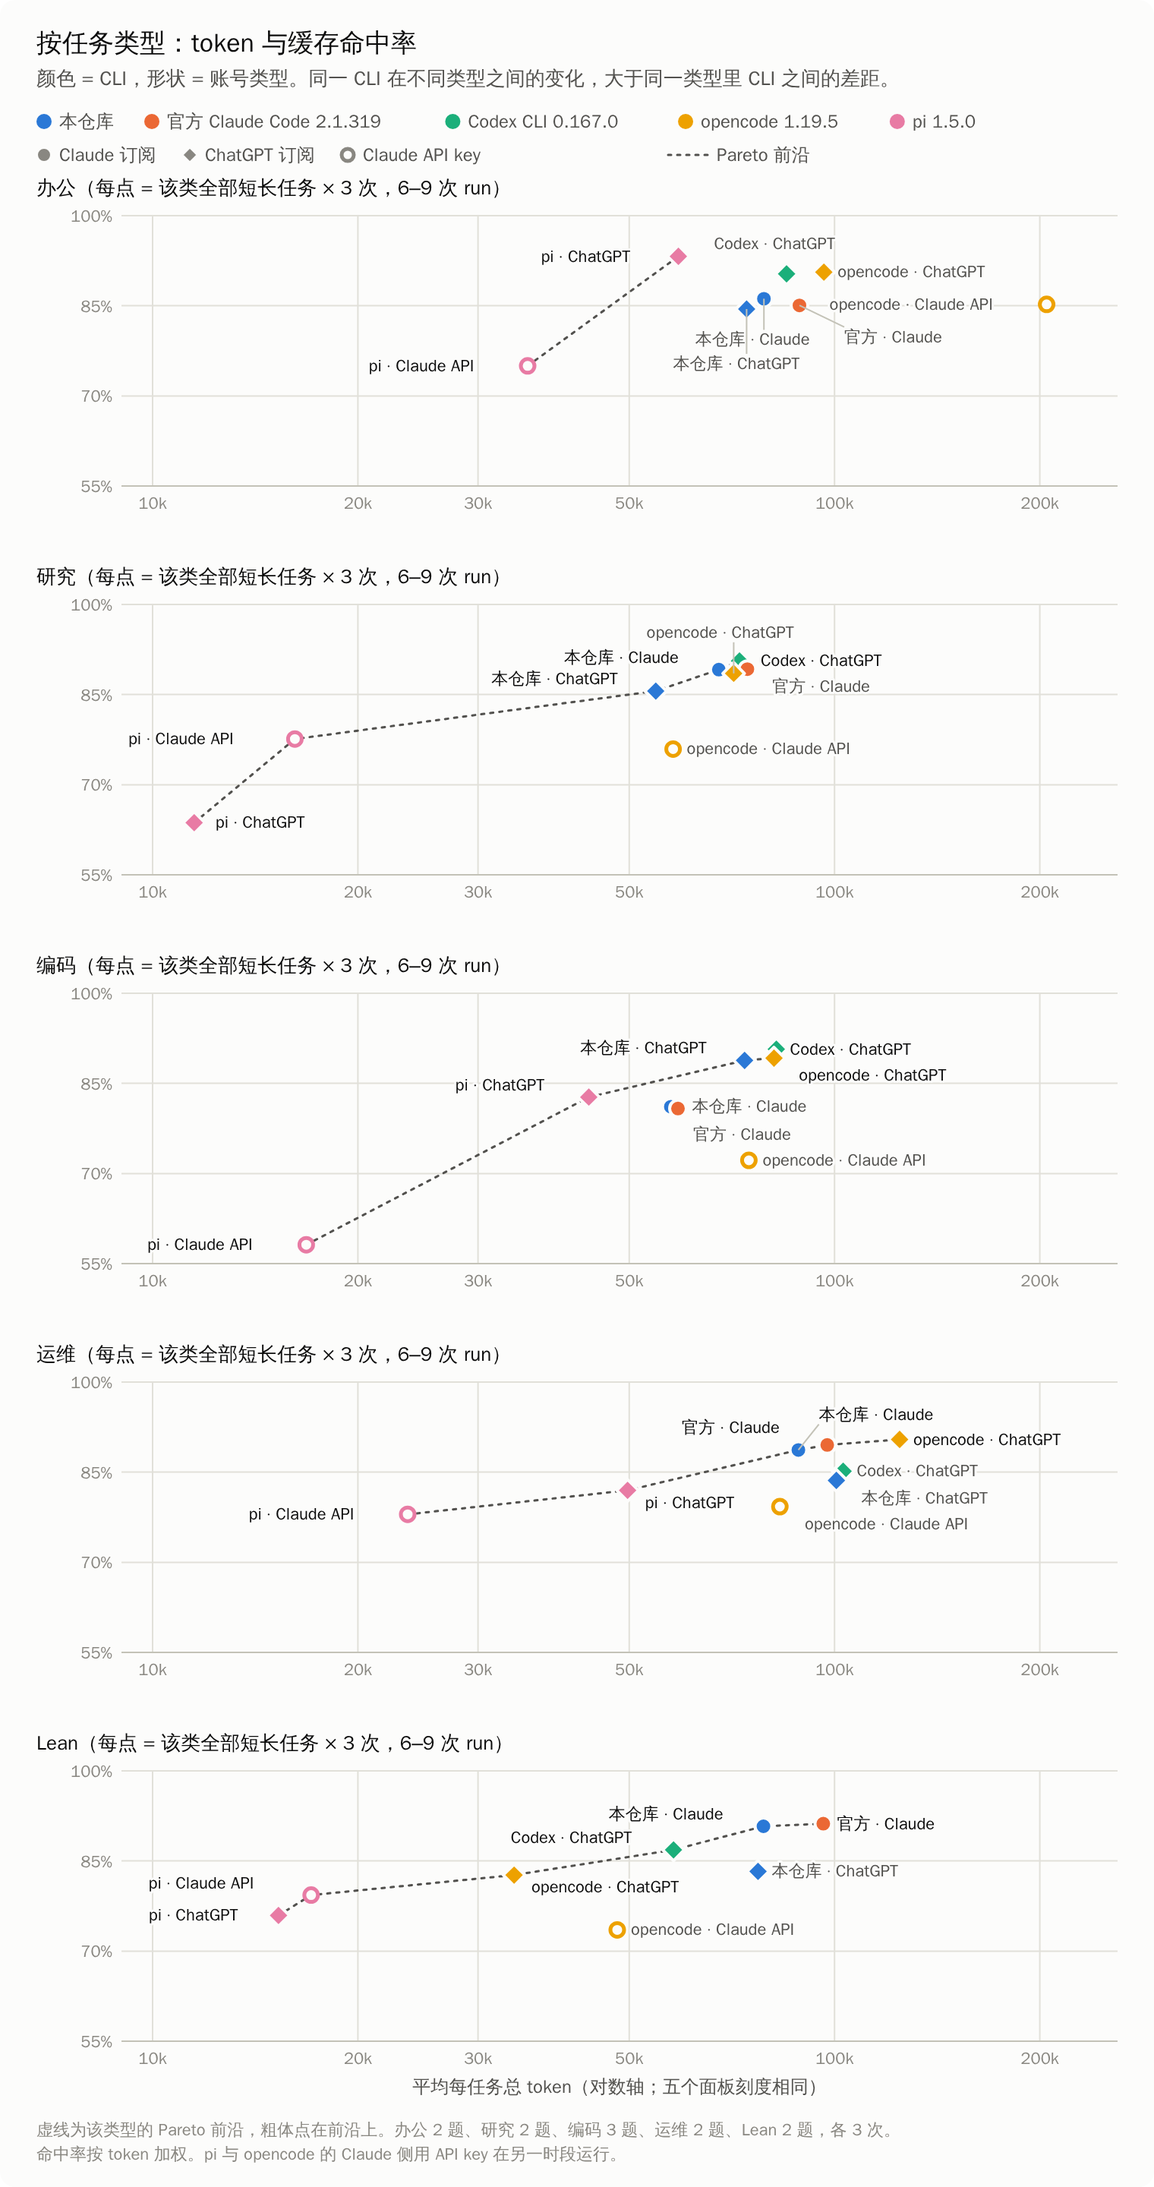
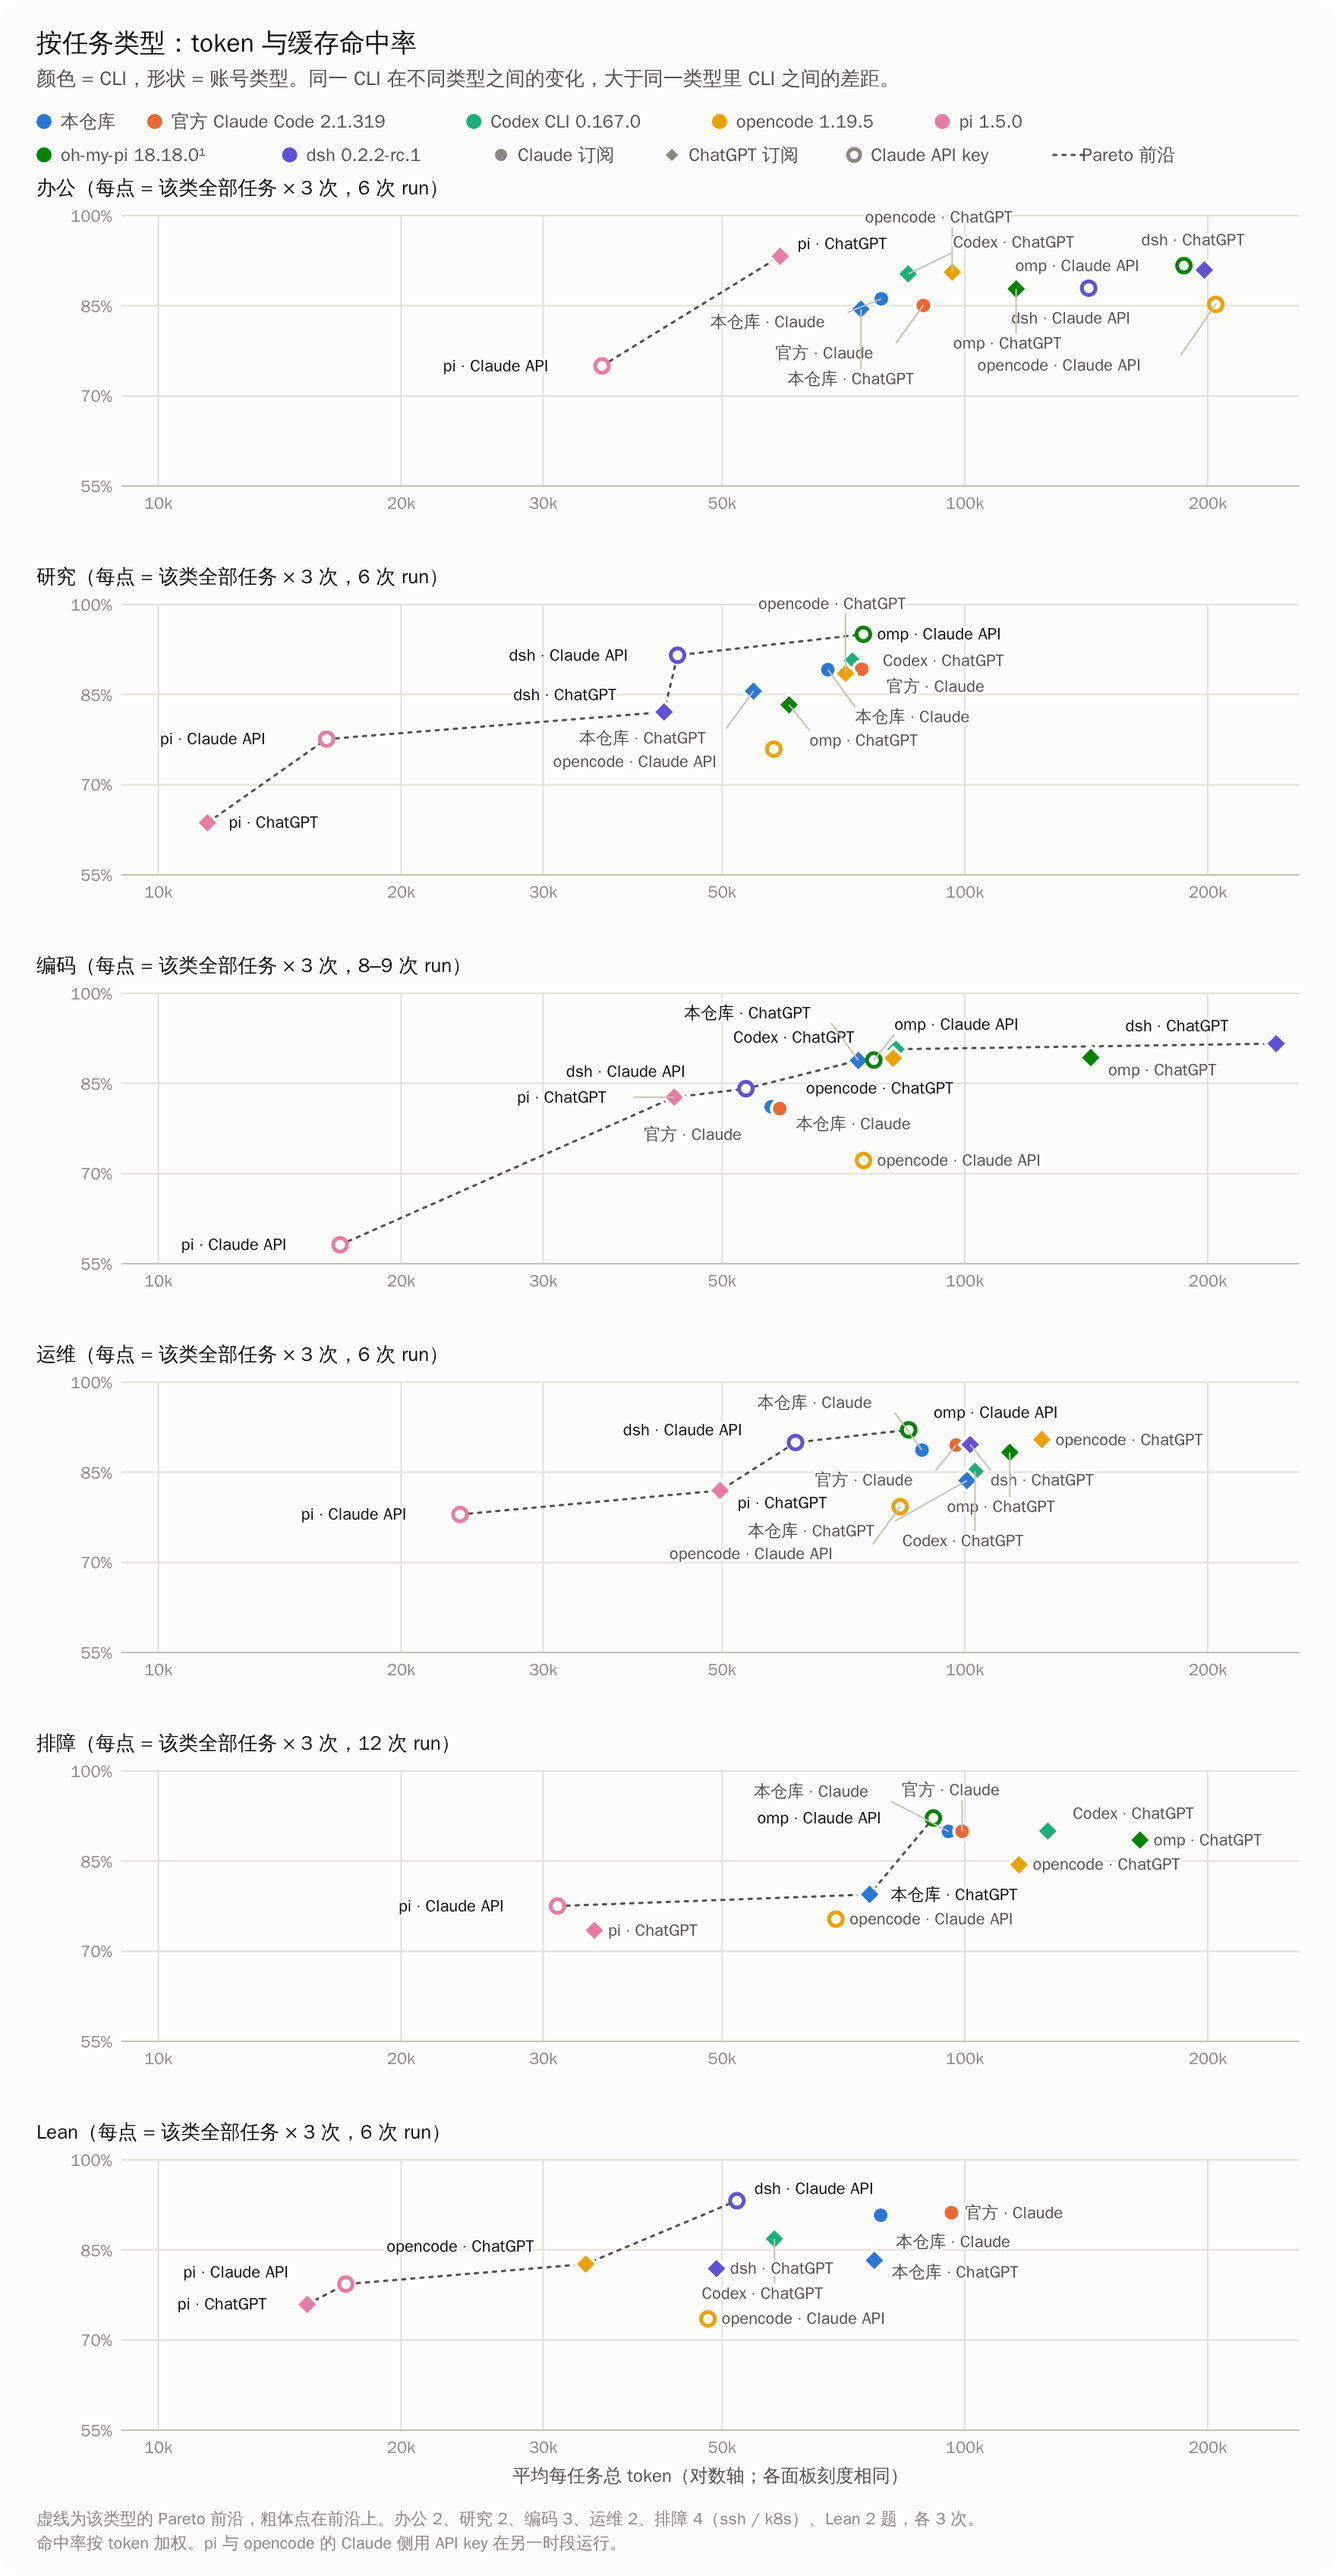
docs(cache-benchmark): scatter charts with all CLIs, ops troubleshooting facet

diff --git a/docs/features/cache-benchmark.md b/docs/features/cache-benchmark.md
@@ -101,31 +101,32 @@ pi 与 opencode 另用 Claude API key 跑了一组 `claude-sonnet-5-5`（见第 
 
 ### 0. token 与命中率总览
 
-横轴是每任务平均总 token（对数轴，越左越省），纵轴是按 token 加权的缓存命中率（越高越好），左上角最好。只看命中率会奖励把大段前缀放进缓存的做法，只看 token 又看不出缓存帮了多少，两项放在一起才能看出谁在「少用」和「多复用」上都占优。两种模型的价格表不同，所以横轴用 token，不用花费；Claude 侧的 API 等价花费见第 1 节表格。
+横轴是每任务平均总 token（对数轴，越左越省），纵轴是按 token 加权的缓存命中率（越高越好），左上角最好。只看命中率会奖励把大段前缀放进缓存的做法，只看 token 又看不出缓存帮了多少，两项放在一起才能看出谁在「少用」和「多复用」上都占优。两种模型的价格表不同，所以横轴用 token，不用花费；API 等价花费见第 1 节表格。
 
-颜色区分 CLI，形状区分账号类型：实心圆 = Claude 订阅（OAuth），菱形 = ChatGPT 订阅（OAuth），空心圆 = Claude API key。Claude 订阅与 API key 都用 `claude-sonnet-5-5`，ChatGPT 订阅用 `gpt-6.1-sol`。
+颜色区分 CLI，形状区分账号类型：实心圆 = Claude 订阅（OAuth），菱形 = ChatGPT 订阅（OAuth），空心圆 = Claude API key。Claude 订阅与 API key 都用 `claude-sonnet-5-5`，ChatGPT 订阅用 `gpt-6.1-sol`。每个大点 = 11 题 × 3 次；oh-my-pi 为 9 题（无 Lean），dsh ChatGPT 账号 32 次（1 次 WebSocket 断线未计入）。
 
-![每任务 token 与缓存命中率：8 个 CLI × 账号的散点，含 5 类任务的分项点、Pareto 前沿与更优区域](images/cache-benchmark/tokens-vs-hit-light.png#gh-light-mode-only)
-![每任务 token 与缓存命中率：8 个 CLI × 账号的散点，含 5 类任务的分项点、Pareto 前沿与更优区域](images/cache-benchmark/tokens-vs-hit-dark.png#gh-dark-mode-only)
+![每任务 token 与缓存命中率：7 个 CLI 共 12 个账号组合的散点，含 6 类任务的分项点、Pareto 前沿与更优区域](images/cache-benchmark/tokens-vs-hit-light.png#gh-light-mode-only)
+![每任务 token 与缓存命中率：7 个 CLI 共 12 个账号组合的散点，含 6 类任务的分项点、Pareto 前沿与更优区域](images/cache-benchmark/tokens-vs-hit-dark.png#gh-dark-mode-only)
 
-- 前沿上的 5 个点：pi（Claude）21k / 73.4%、pi（ChatGPT）37k / 84.0%、本仓库（Claude）73k / 87.1%、Codex 80k / 88.8%、opencode（ChatGPT）82k / 89.2%。
-- 更优区域（token 不高于中位数且命中率不低于中位数）里是本仓库 Claude 账号、本仓库 ChatGPT 账号（在边界上）和 Codex；官方 81k / 87.3% 被 Codex 在两项上同时略微超过，但差距都在噪声范围内。
-- pi 的提示只有约 2.7k，token 最少但新内容占比大，命中率最低；opencode 在 Claude 模型下 92k / 79.2%，两项都落后于同模型的本仓库与官方。
+- 前沿上的 6 个点：pi（Claude API）21k / 73.4%、pi（ChatGPT）37k / 84.0%、dsh（Claude API）69k / 88.7%、Codex 80k / 88.8%、opencode（ChatGPT）82k / 89.2%、oh-my-pi（Claude API）103k / 91.6%。
+- 更优区域（token 不高于中位数 81k 且命中率不低于中位数 87.3%）里是 dsh（Claude API）、Codex 和官方。本仓库 Claude 账号 73k / 87.1% 在区域边缘，与官方相差 0.2 个百分点，在噪声范围内。
+- pi 的提示只有约 2.7k，token 最少但新内容占比大，命中率最低；opencode 在 Claude API key 下 92k / 79.2%，两项都落后于同模型的其他 CLI。
 
 ![按任务类型：每类一个面板的 token 与命中率散点](images/cache-benchmark/tokens-vs-hit-by-type-light.png#gh-light-mode-only)
 ![按任务类型：每类一个面板的 token 与命中率散点](images/cache-benchmark/tokens-vs-hit-by-type-dark.png#gh-dark-mode-only)
 
 - 同一 CLI 在不同任务类型之间的位置变化，大于同一类型里 CLI 之间的差距。
 - Claude 订阅（本仓库、官方）在研究、运维、Lean 三类处于前沿或贴近前沿；编码类两者都是 81%，低于 ChatGPT 订阅的 83–91%。
+- 排障（ssh / Kubernetes 4 题）：oh-my-pi（Claude API）91k / 92.2% 命中最高；本仓库 Claude 95k / 89.9% 与官方 99k / 90.0% 持平；本仓库 ChatGPT 76k / 79.5%，低于 Codex 127k / 90.0%。
 - Claude API key 的 opencode 在研究、编码、运维、Lean 四类比同模型的 Claude 订阅低 9–18 个百分点；办公类命中率接近，但 token 是 205k。pi 在每一类都是 token 最少的点。
 
 ![交互、多代理与长闲置场景：每个场景一个面板的 token 与命中率散点](images/cache-benchmark/tokens-vs-hit-scenarios-light.png#gh-light-mode-only)
 ![交互、多代理与长闲置场景：每个场景一个面板的 token 与命中率散点](images/cache-benchmark/tokens-vs-hit-scenarios-dark.png#gh-dark-mode-only)
 
-- 6 轮交互：本仓库 Claude TUI 235k / 94.8% 在前沿上；官方 640k / 97.3% 命中率最高但 token 是 2.7 倍。
+- 6 轮交互：前沿是 pi（Claude API）60k / 90.4%、opencode（Claude API）176k / 90.4%、本仓库 Claude TUI 235k / 94.8%、官方 640k / 97.3%。官方命中率最高，但 token 是本仓库的 2.7 倍。Web 只有本仓库有，其他 CLI 没有 Web 界面。
 - SDK 4 轮：本仓库 Claude 133k / 92.1% 在前沿上，官方 155k / 92.5%。
-- 多代理：subagent 让三者命中率都降到 80–85%；Agent Teams 本仓库 Claude 账号 337k / 89.8%、ChatGPT 账号 498k / 82.6%。
-- 长时间闲置：ChatGPT 侧缓存没有过期，本仓库 ChatGPT 331k / 91.6%、Codex 361k / 92.7%；Claude 侧 1 小时缓存过期，本仓库 306k / 81.8%、官方 349k / 85.9%。
+- 多代理：同一任务从单代理到 3 个 subagent，Codex 356k / 95.1%、dsh（Claude API）178k / 93.6%、oh-my-pi（Claude API）230k / 90.1% 命中最高；本仓库两个账号 subagent 在 80–81%。Agent Teams 只有本仓库与官方有：本仓库 Claude 337k / 89.8%、ChatGPT 498k / 82.6%。pi 没有 subagent。
+- 长时间闲置：ChatGPT 侧缓存没有过期，opencode 358k / 94.8%、Codex 361k / 92.7%、本仓库 331k / 91.6%；Claude 侧本仓库与官方写 1 小时缓存，65 分钟后过期，306k / 81.8% 与 349k / 85.9%；pi 与 opencode 在 Claude 侧写 5 分钟缓存，闲置 15 分钟以上就过期，73.0% 与 76.6%。
 
 ### 1. 总体命中率
 
